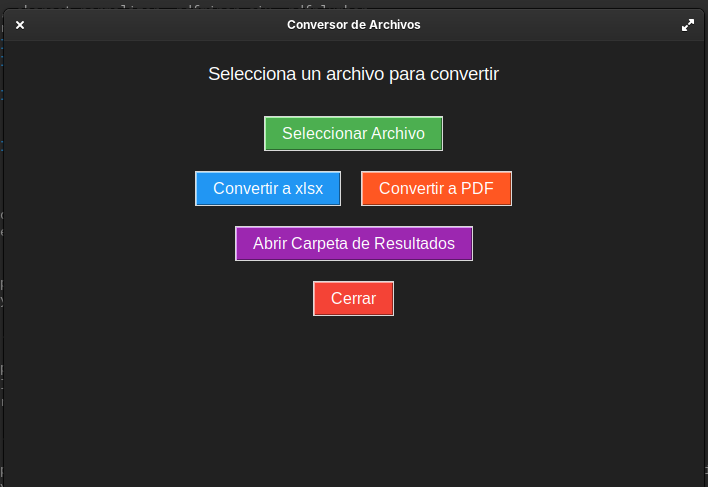
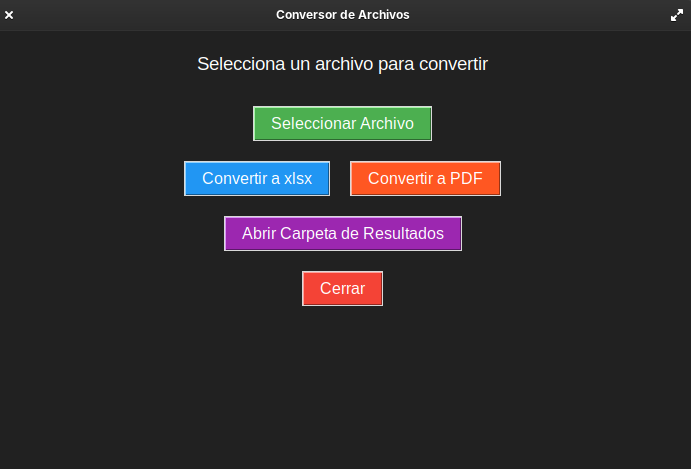
update

diff --git a/PyExcel.py b/PyExcel.py
@@ -19,7 +19,8 @@ def seleccionar():
             ("Archivos CSV", "*.csv"),
             ("Archivos de Excel", "*.xls;*.xlsx"),
             ("Archivos JSON", "*.json"),
-            ("Archivos PDF", "*.pdf")
+            ("Archivos PDF", "*.pdf"),
+            ("Todos", "*")
         ]
     )
     if archivo:

diff --git a/README.md b/README.md
@@ -22,7 +22,7 @@ PyExcel Converter es una herramienta gráfica para convertir archivos (CSV, Exce
    -pdfplumber: Extracción de tablas desde PDFs.
    -Tkinter: Interfaz gráfica.
 
-![App Screenshot](./img/cap.png)
+![App Screenshot](./img/cap2.png)
 
 
 ## 📦 Instalacion
